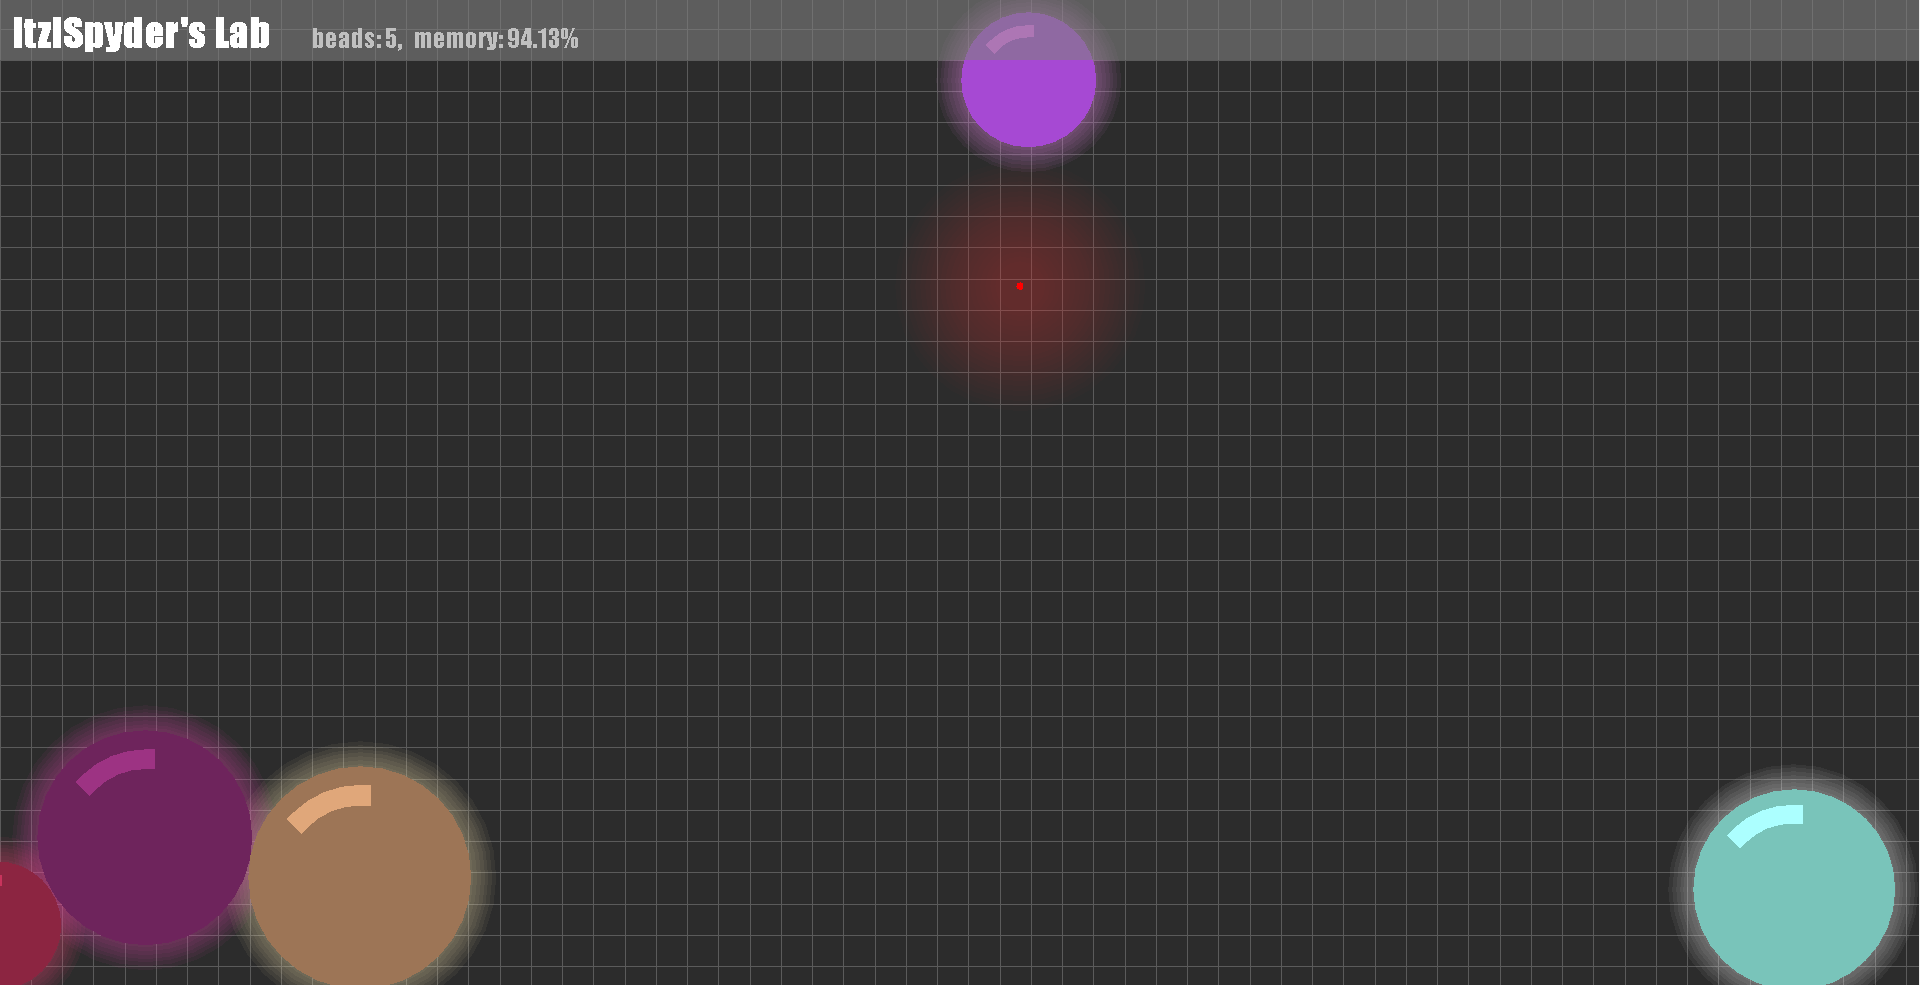
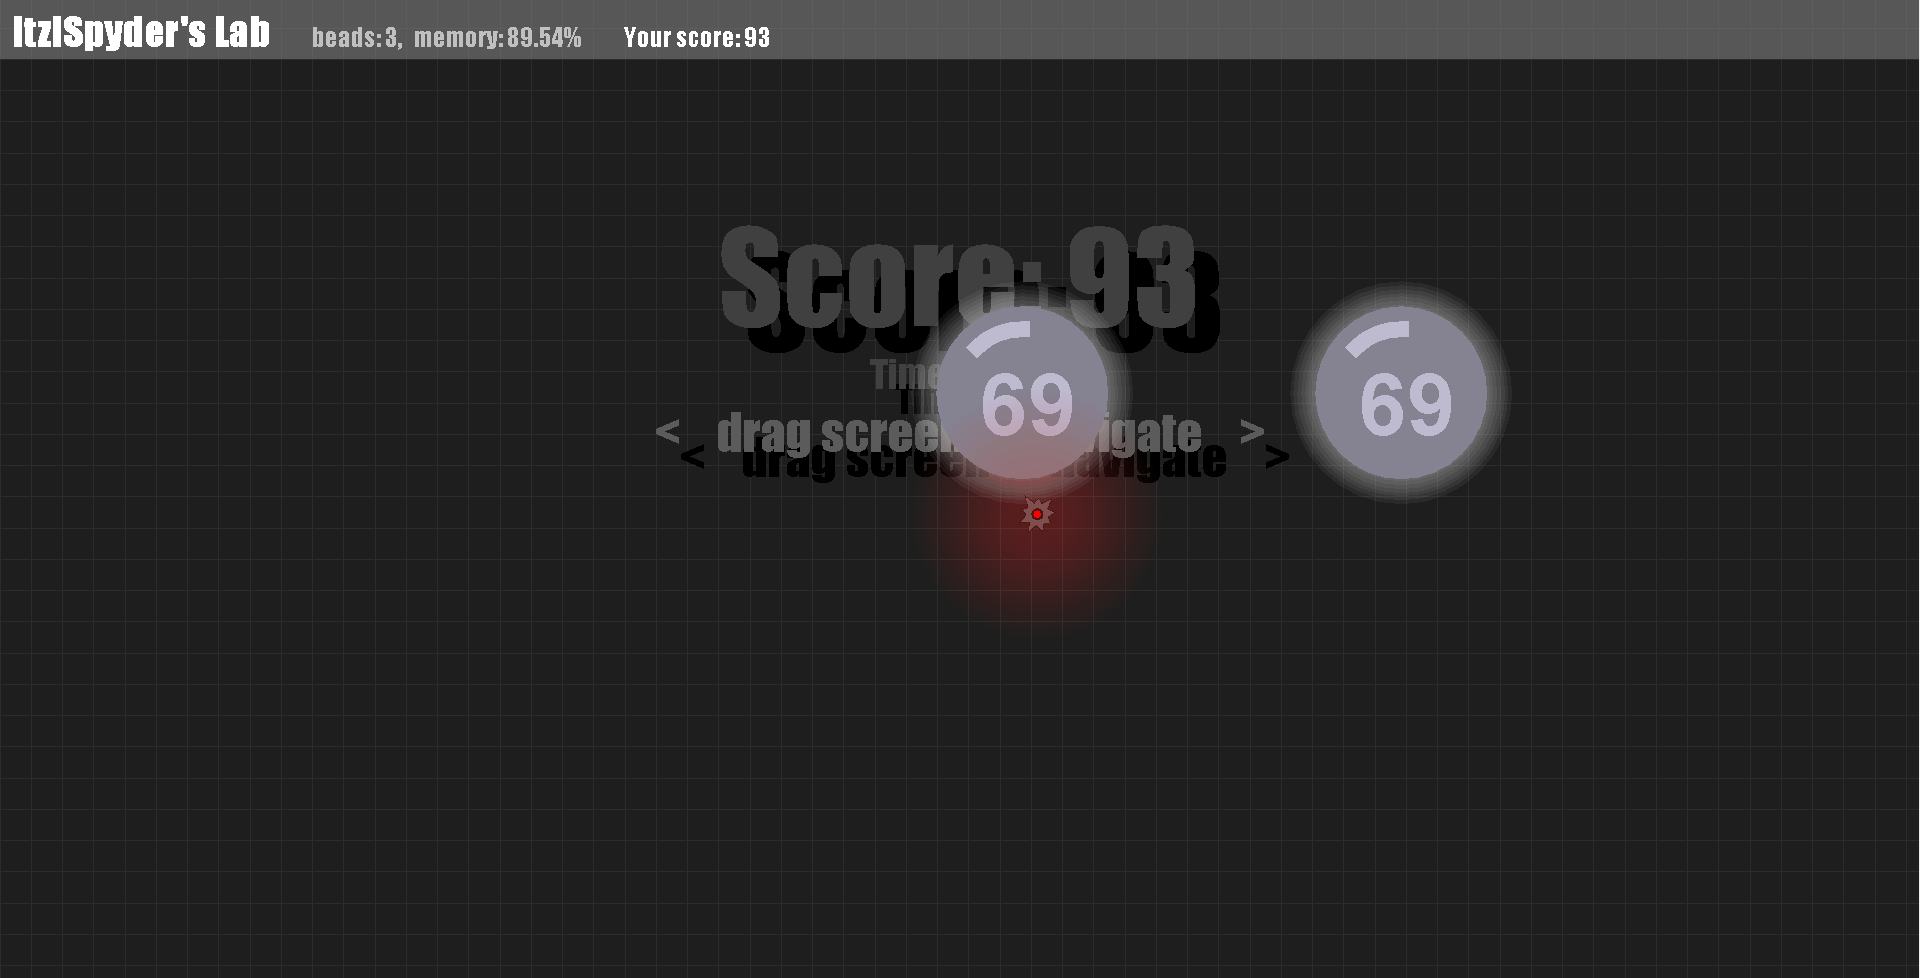
updated README.md

diff --git a/README.md b/README.md
@@ -3,8 +3,20 @@ Submerged in an infinite 2d world where dots fall out of the sky.
 
 ![demo-image](./assets/images/demo.png)
 
-Tips:
+## Tips:
 - Shoot the dots by hovering over them
 - Drag cursor to navigate throughout the world
 - Target the large ones first because they sometimes split into smaller ones!
+
+
+- Gain health score by shooting at the beads! The score gained would the the number displayed on the bead.
+- Letting beads touch the floor or despawn (when they turn gray) would result in taking damage 5x the amount displayed on the bead.
+- Larger beads split into smaller ones!
+
+![demo-damage](./assets/images/demo_damage.png)
+
+- A health score less than or equal to 0 would result in death!
+- (yes i got 15 min im just that good ykyk)
+
+![demo-](./assets/images/demo_game_over.png)
 
